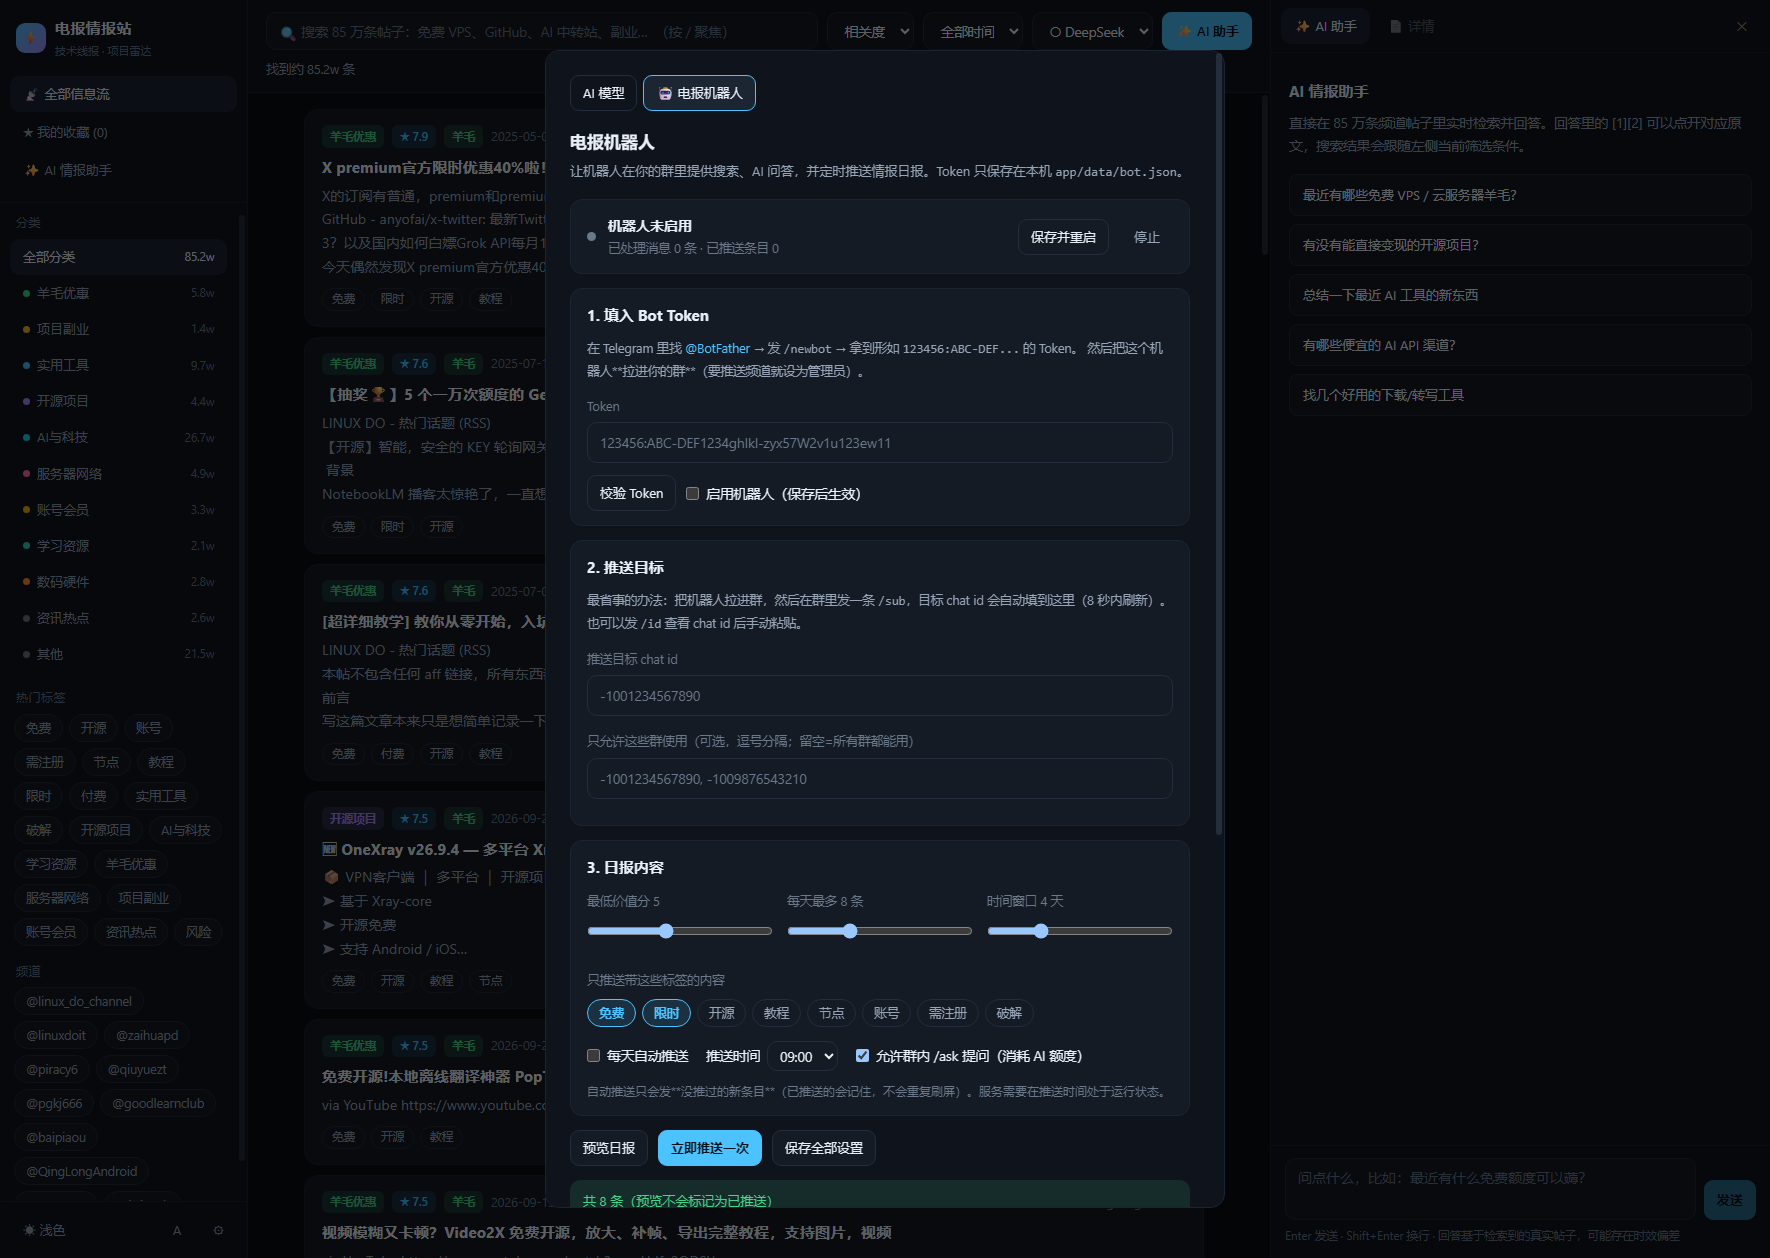
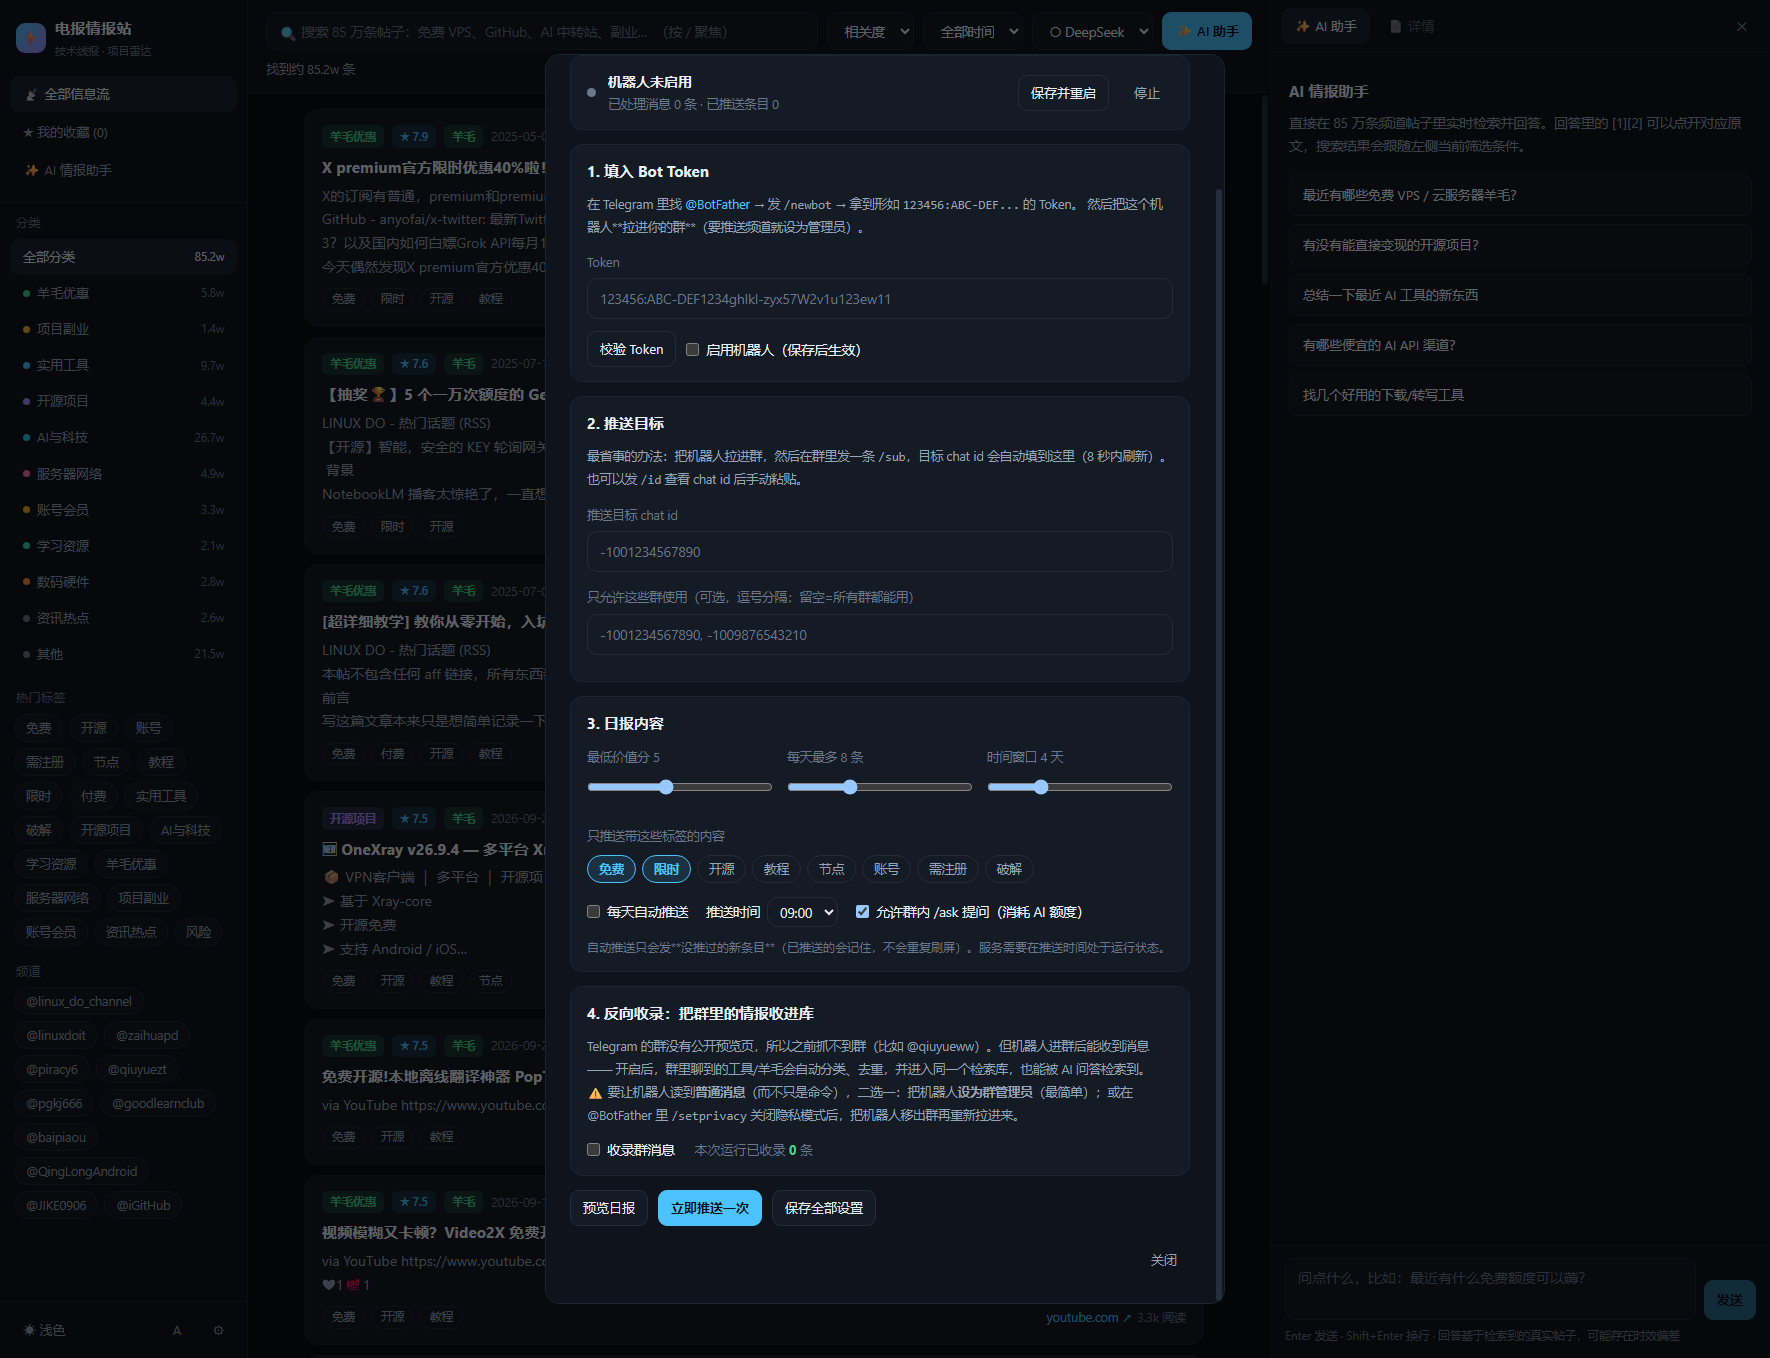
feat(bot): 反向收录群消息 —— 补上 Telegram 群无法公开抓取的缺口
Telegram 的群没有 t.me/s 公开预览页，所以之前 @qiuyueww 这类群完全抓不到
（文档里也标为已知限制）。机器人进群后能收到消息，正好把这条链路补上。

- posts 表新增 source / author / group_title 列，首次启动自动迁移
  （ALTER TABLE ADD COLUMN + 建 (channel,msg_id) 查询索引，852,433 行无损）
- store.insertGroupPost：复用同一套分类器，写入 posts 并同步更新 FTS 索引，
  按 (channel, msg_id) 去重
- bot.mjs：非命令的群消息自动入库，过滤短消息(<8字)与机器人自己发的消息
- 提取 text_link / url 实体与正文 URL，一并存入 links / domains
- 新增开关「收录群消息」（默认关闭）；/status 显示收录数量
- UI 第 4 节说明权限要求：需把机器人设为群管理员，或用 /setprivacy 关闭
  隐私模式后把机器人移出群再拉回来

验证（mock Telegram + 独立测试库）：
- 3 条更新中只收录 1 条，短消息与机器人消息被正确过滤
- 收录内容可被 FTS 检索命中，并被分类为「羊毛优惠」、提取出链接
- 重复 msgId 返回 duplicate，不重复写入
- 生产库迁移后校验：新列与索引就位，852,433 行数据完整

diff --git a/app/web/src/components/BotSettings.tsx b/app/web/src/components/BotSettings.tsx
@@ -5,6 +5,7 @@ type Cfg = {
   enabled: boolean; hasToken: boolean; tokenHint: string; pushChatId: string; allowedChatIds: string;
   autoPush: boolean; pushHour: number; pushMinValue: number; pushTags: string[]; pushLimit: number;
   windowDays: number; allowAsk: boolean; lastPushDate: string; pushedCount: number;
+  ingestGroups: boolean; ingestedCount: number; lastIngest: any;
 };
 const TAGS = ['免费', '限时', '开源', '教程', '节点', '账号', '需注册', '破解'];
 
@@ -39,7 +40,7 @@ export function BotSettings() {
       enabled: cfg.enabled, pushChatId: cfg.pushChatId, allowedChatIds: cfg.allowedChatIds,
       autoPush: cfg.autoPush, pushHour: Number(cfg.pushHour), pushMinValue: Number(cfg.pushMinValue),
       pushTags: cfg.pushTags, pushLimit: Number(cfg.pushLimit), windowDays: Number(cfg.windowDays),
-      allowAsk: cfg.allowAsk, restart: restart,
+      allowAsk: cfg.allowAsk, ingestGroups: cfg.ingestGroups, restart: restart,
     };
     if (token.trim()) payload.token = token.trim();
     const r = await saveBot(payload);
@@ -171,6 +172,25 @@ export function BotSettings() {
         </div>
         <div style={{ fontSize: 12, color: 'var(--fg-mute)', marginTop: 10 }}>
           自动推送只会发**没推过的新条目**（已推送的会记住，不会重复刷屏）。服务需要在推送时间处于运行状态。
+        </div>
+      </div>
+
+      <div style={card}>
+        <div style={{ fontWeight: 650, marginBottom: 8 }}>4. 反向收录：把群里的情报收进库</div>
+        <div style={{ fontSize: 12.5, color: 'var(--fg-dim)', lineHeight: 1.85, marginBottom: 10 }}>
+          Telegram 的群没有公开预览页，所以之前抓不到群（比如 @qiuyueww）。但机器人进群后能收到消息 —— 开启后，群里聊到的工具/羊毛会自动分类、去重，并进入同一个检索库，也能被 AI 问答检索到。
+          <br />
+          ⚠ 要让机器人读到<b>普通消息</b>（而不只是命令），二选一：把机器人<b>设为群管理员</b>（最简单）；或在 @BotFather 里 <code>/setprivacy</code> 关闭隐私模式后，把机器人移出群再重新拉进来。
+        </div>
+        <div style={{ display: 'flex', gap: 20, alignItems: 'center', flexWrap: 'wrap' }}>
+          <label style={{ display: 'flex', alignItems: 'center', gap: 7, fontSize: 13.5 }}>
+            <input type="checkbox" checked={cfg.ingestGroups} onChange={e => upd('ingestGroups', e.target.checked)} style={{ width: 'auto', margin: 0 }} />
+            收录群消息
+          </label>
+          <span style={{ fontSize: 13, color: 'var(--fg-mute)' }}>
+            本次运行已收录 <b style={{ color: 'var(--green)' }}>{cfg.ingestedCount || 0}</b> 条
+            {cfg.lastIngest && <span>{' · 最近：' + cfg.lastIngest.chat + '「' + String(cfg.lastIngest.text || '').slice(0, 18) + '…」'}</span>}
+          </span>
         </div>
       </div>
 

diff --git a/README.md b/README.md
@@ -148,6 +148,21 @@ t.me/s/<频道>  ──scrape.mjs──▶  data/raw/<频道>/seg_*.jsonl
 
 ![电报机器人](app/预览-电报机器人.png)
 
+### 反向收录：把群里的情报收进库
+
+Telegram 的**群没有公开预览页**，所以 `t.me/s/` 抓不到群（这正是当初 `@qiuyueww` 拿不到数据的原因）。但机器人进群后是能收到消息的 —— 打开第 4 节的「收录群消息」后：
+
+- 群里聊到的工具/羊毛会自动走**同一套分类器**，进入同一个检索库
+- 能被全文检索命中，也能被 AI 问答检索到
+- 按 `(群, 消息ID)` 去重，不会重复入库
+- 自动过滤太短的消息（<8 字）和机器人自己发的消息
+- 会自动提取正文里的链接和 Telegram 的 `text_link` 实体
+
+⚠ 要让机器人读到**普通消息**（而不是只收到命令），二选一：
+
+1. **把机器人设为群管理员**（最简单，推荐）
+2. 或在 @BotFather 里 `/setprivacy` 关闭隐私模式，然后**把机器人移出群再重新拉进来**（隐私设置需要重新入群才生效）
+
 ### 几个设计说明
 
 - 用**长轮询**（`getUpdates`），不需要公网 IP、不需要 HTTPS 证书、不用配 webhook，本机开着就能收消息
